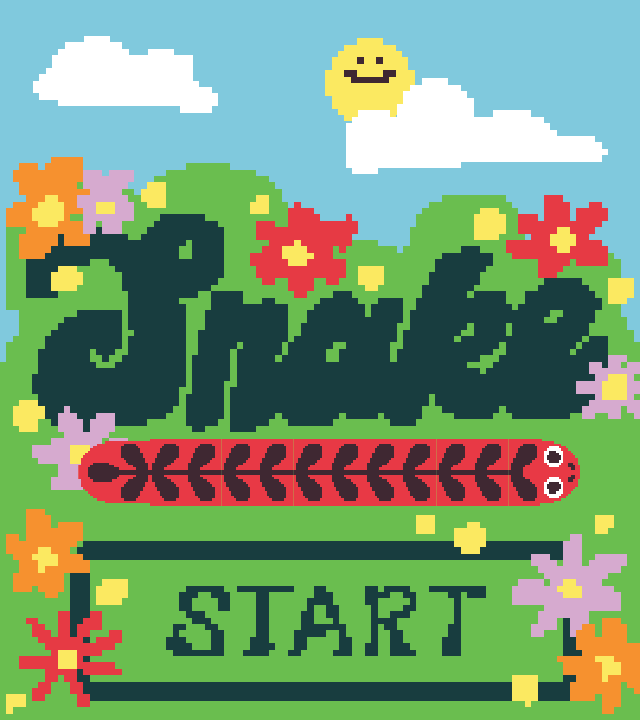
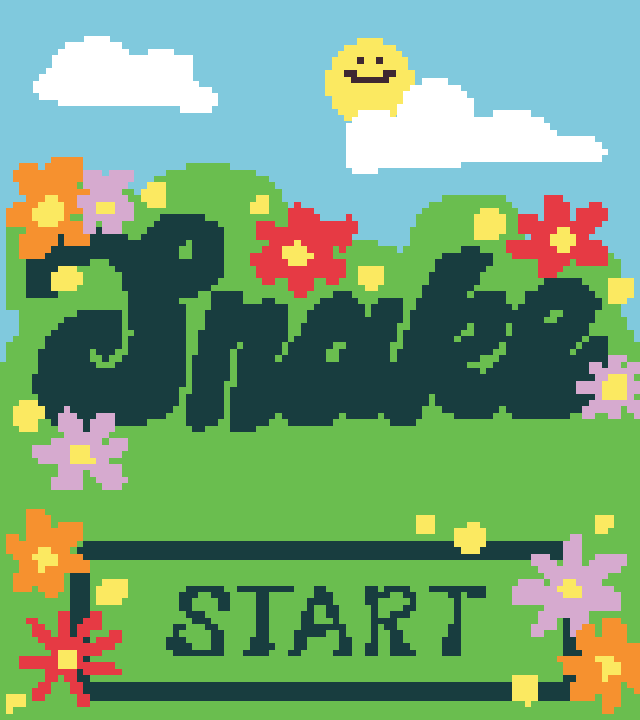
fixed some images + added some animation

Changed region(s): [[0.125, 0.6111, 0.9062, 0.7028]]

diff --git a/src/snakeGame/Board.java b/src/snakeGame/Board.java
@@ -25,6 +25,8 @@ public class Board {
     Image bgImage = new Image(0, 0, "level-backgrounds/g_bg.png");
     Image instructionImage = new Image(0, 0, "start-difficulty-gameover/instructions.png");
     Image youWinImage = new Image(0, 0, "start-difficulty-gameover/youwin.png");
+    Image startScreenSnakeImage = new Image(0, 0, "start-difficulty-gameover/start-snake.png");
+    Image difficultyCloudImage = new Image(0, 0, "start-difficulty-gameover/difficulty-cloud.png");
 
     private Point clickPos = new Point(0, 0);
 
@@ -149,17 +151,27 @@ public class Board {
             setClickPos(event.getPosition());
         });
 
+        int i = 0;
+
         canvas.add(difficultyImage);
+        canvas.add(difficultyCloudImage);
         canvas.add(instructionImage);
         canvas.add(startScreenImage);
+        canvas.add(startScreenSnakeImage);
+        startScreenSnakeImage.setPosition(-600,0);
         
         canvas.draw();
 
         canvas.animate(() -> {
             
             if(startScreen) {
+                imageManager.animateSnake(startScreenSnakeImage);
+                canvas.draw();
+                
                 if (clickOnStart()){
                     canvas.remove(startScreenImage);
+                    canvas.remove(startScreenSnakeImage);
+                    
                     canvas.draw();
                     instructionScreen = true;
                     startScreen = false;
@@ -177,6 +189,9 @@ public class Board {
             }
 
             if (difficultyScreen) {
+
+                imageManager.animateCloud(difficultyCloudImage);
+
                 String difficultySeclection = clickOnDifficulty();
                 if (difficultySeclection != null) {
 
@@ -201,6 +216,7 @@ public class Board {
             if(gameScreen){
                 if(newGame) {
                     canvas.remove(difficultyImage);
+                    canvas.remove(difficultyCloudImage);
                     snakeManager.moveSnake();
                     scoreManager.addScoreToCanvas();
                     canvas.draw();
@@ -256,6 +272,7 @@ public class Board {
                 if(clickOnRestart()){
                     canvas.remove(youWinImage);
                     canvas.add(difficultyImage);
+                    canvas.add(difficultyCloudImage);
 
                     canvas.draw();
                     
@@ -273,6 +290,7 @@ public class Board {
                 if(clickOnRestart()){
                     canvas.remove(gameoverImage);
                     canvas.add(difficultyImage);
+                    canvas.add(difficultyCloudImage);
 
                     canvas.draw();
 

diff --git a/src/snakeGame/ImageManager.java b/src/snakeGame/ImageManager.java
@@ -1,11 +1,17 @@
 package snakeGame;
 
+import edu.macalester.graphics.GraphicsObject;
+
 public class ImageManager {
 
     private String level;
+    private int i;
+    private boolean c = true;
 
     public ImageManager(String level) {
         this.level = level;
+        i = 0;
+
     }
 
     public void setLevel(String level) {
@@ -14,6 +20,35 @@ public class ImageManager {
 
     public String getLevel() {
         return level;
+    }
+
+    public void animateSnake(GraphicsObject snake) {
+        if (snake.getPosition().getX() < 650) {
+            i = i + 3;
+            snake.setPosition(-600+i,0);
+            
+        } else {
+            snake.setPosition(-600,0);
+            
+            i = 0;
+        }
+        
+    }
+
+    public void animateCloud(GraphicsObject cloud) {
+        if (c) {
+            cloud.setPosition(0,cloud.getPosition().getY()+0.25);
+            if (cloud.getPosition().getY()>5) {
+                c = false;
+            }
+            
+        } else {
+            cloud.setPosition(0,cloud.getPosition().getY()-0.25);
+            if (cloud.getPosition().getY()<-5) {
+                c = true;
+            }
+        }
+        
     }
 
     public String getImagePathString(String folder, String picture) {

diff --git a/src/snakeGame/FoodManager.java b/src/snakeGame/FoodManager.java
@@ -28,16 +28,11 @@ public class FoodManager {
 
         this.imageManager = imageManager;
 
-        
-
         this.gridPointList = gridPointList;
-        //remove points of the snake
 
-        foodPos = (new Point(0,0));
+        foodPos = new Point(0,0);
 
         food = new Food(foodPos.getX(), foodPos.getY());
-        // food.setImgPath("food/bbug.png");
-        
     }
 
     public void makeFood(ArrayList<SnakePiece> snake, SnakeHead head) { 
@@ -53,7 +48,7 @@ public class FoodManager {
 
     private void randomlySetFoodType(){
         int randomInt = r.nextInt(100);
-        if(randomInt<=25){
+        if(randomInt<=30){
             foodType = "bug";
         }else{
             foodType = "fruit";

diff --git a/src/snakeGame/SnakeManager.java b/src/snakeGame/SnakeManager.java
@@ -209,7 +209,6 @@ public class SnakeManager {
         }
         
         snakeHead.setSnakeHeadImg(direction);
-        System.out.println(direction);
 
         if (newHeadX >= border && newHeadX <= canvas.getWidth() - border - snakeHead.getBlockSize()
             && newHeadY >= border+80 && newHeadY <= canvas.getHeight() - border - snakeHead.getBlockSize()) {

diff --git a/src/snakeGame/ScoreManager.java b/src/snakeGame/ScoreManager.java
@@ -16,9 +16,9 @@ public class ScoreManager {
 
     public void addScore(String food){
         if (food =="bug"){
-            score+=100;
+            score+=10;
         } else {
-            score+=100;
+            score+=5;
         }
         
         Score.setText("Score " + score);
